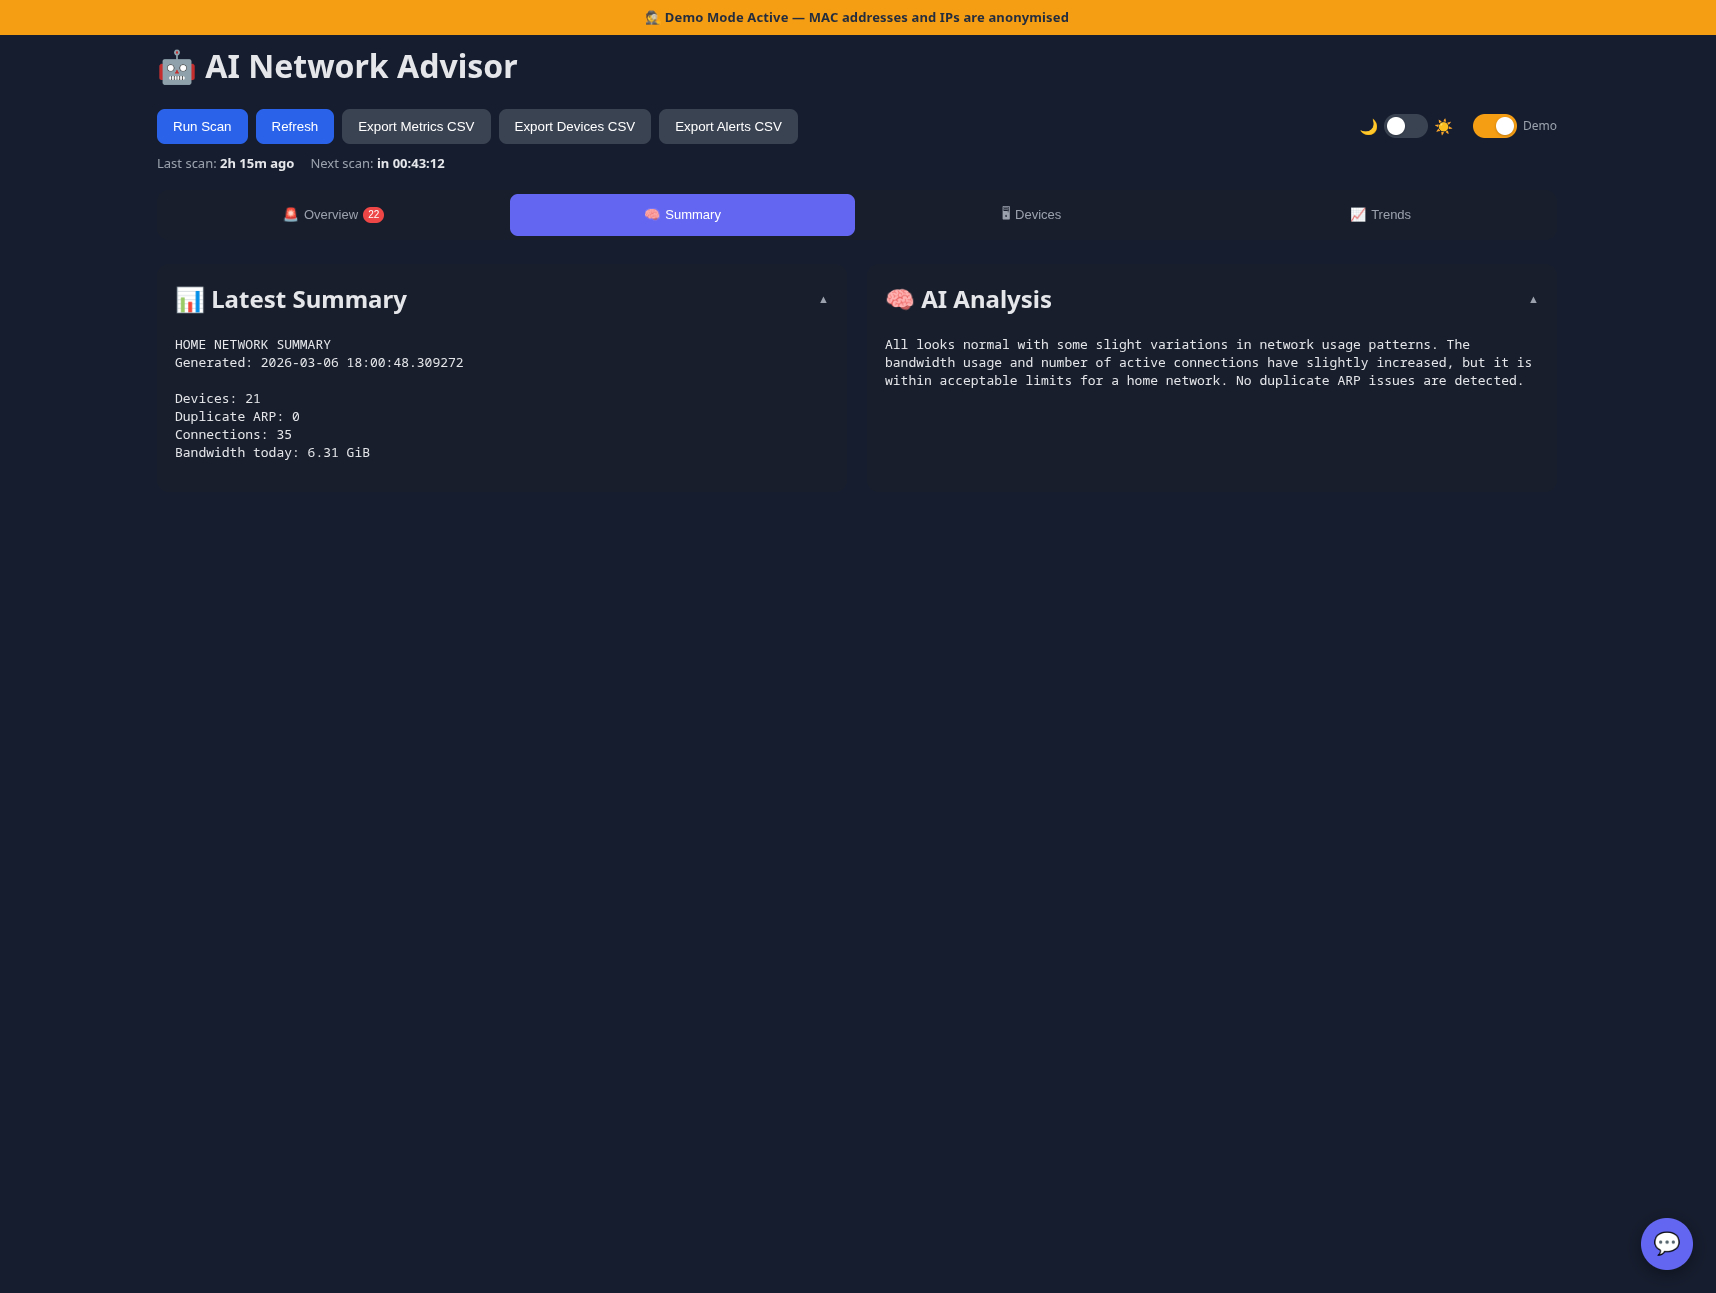
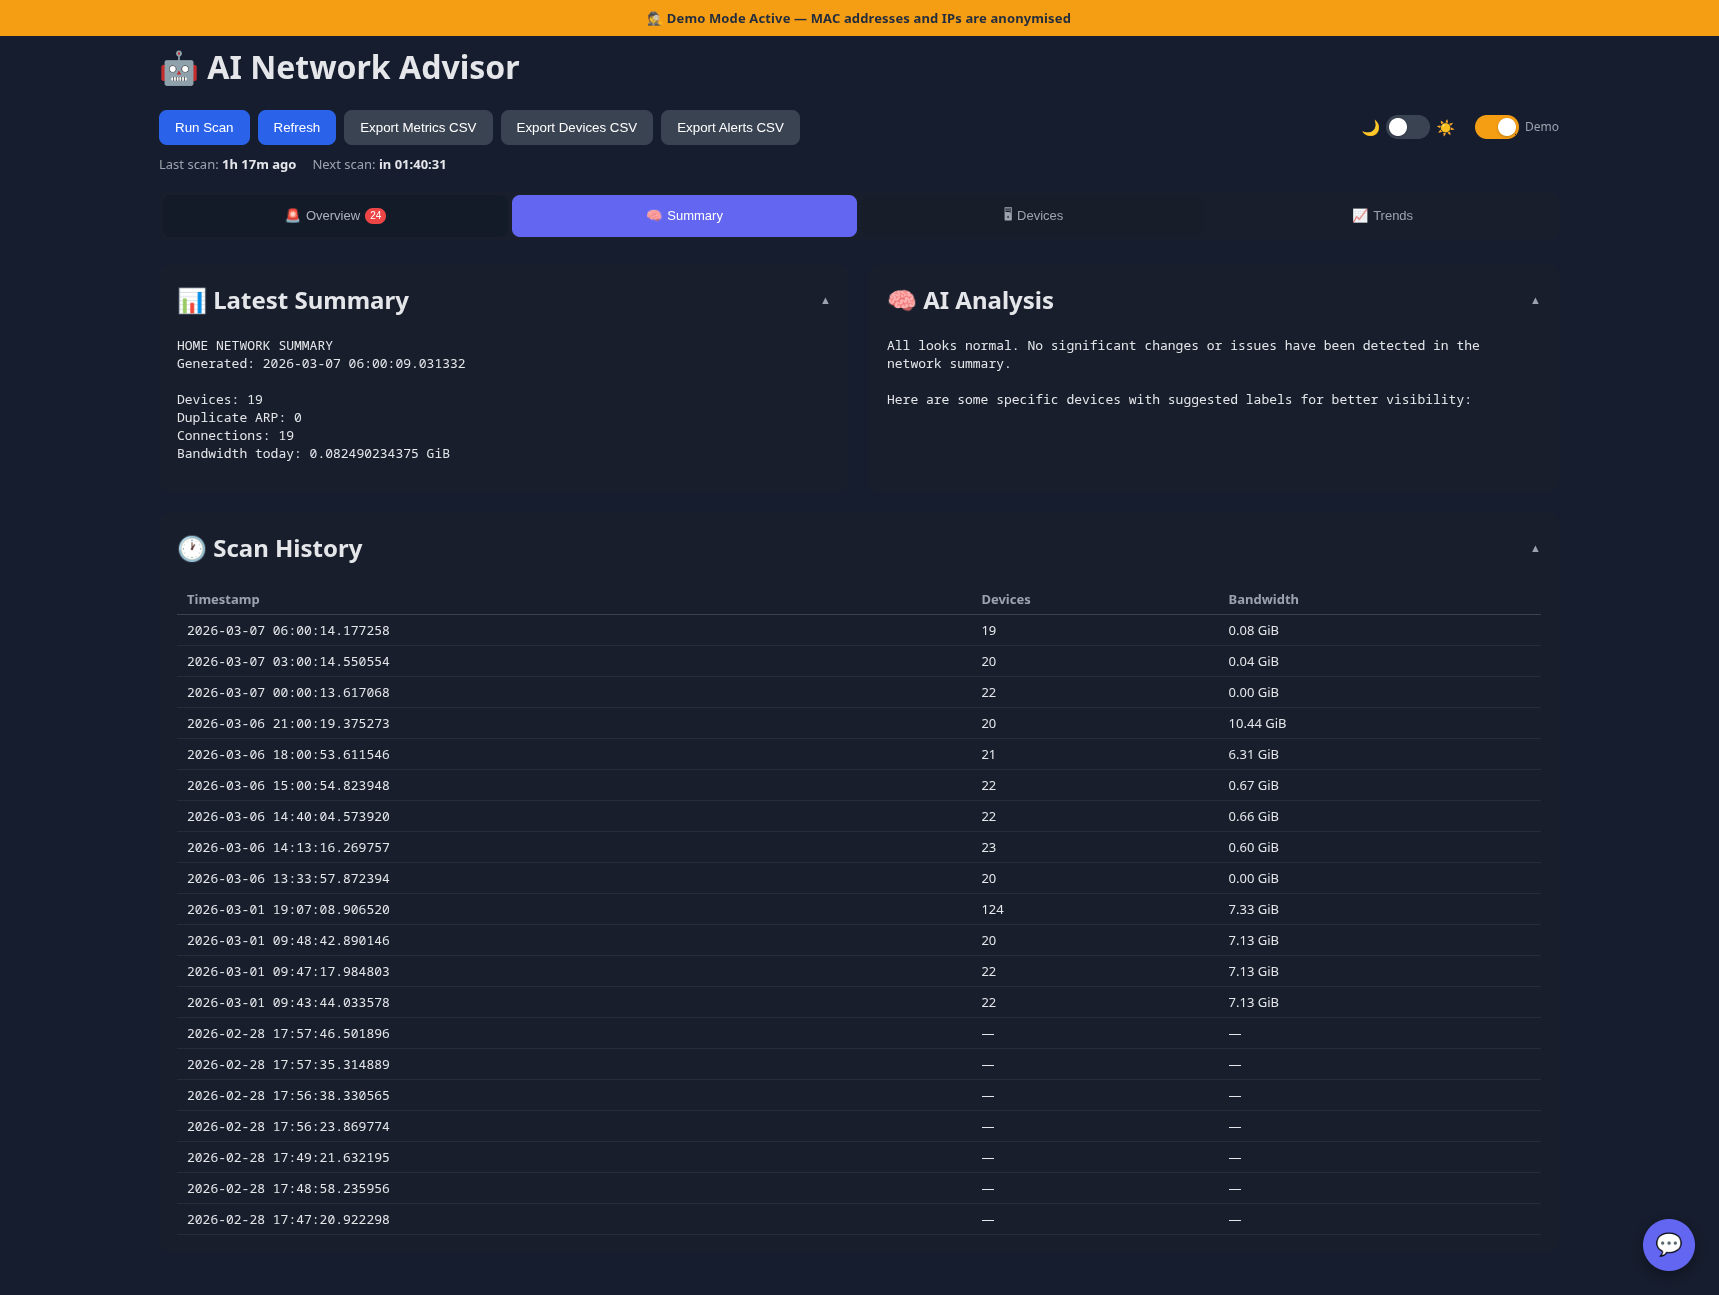
Update README and screenshot for scan history and new features
- Replace Summary tab screenshot to show scan history table
- Update screenshot caption to mention scan history
- Add scan history, per-device online/offline, port scan on new devices,
  and gateway ping to features list

diff --git a/README.md b/README.md
@@ -21,7 +21,8 @@ A self-hosted home network monitoring agent with an AI-powered web dashboard. Sc
 - Suggested starter questions so you know what to ask
 
 **Alerting**
-- Threshold-based alerts: high latency (>80ms), packet loss (>5%), host unreachable, duplicate ARP, new unknown devices
+- Threshold-based alerts: high latency (>80ms), packet loss (>5%), host unreachable, gateway unreachable, duplicate ARP, new unknown devices, labelled device offline
+- Gateway ping distinguishes LAN outages (router down) from ISP outages (internet down)
 - Alerts categorised by type with colour-coded badges (New Device, Packet Loss, Unreachable, Duplicate ARP, High Latency)
 - Alert escalation tracking — fires again if a condition persists
 - Auto-resolve when a condition clears
@@ -31,6 +32,8 @@ A self-hosted home network monitoring agent with an AI-powered web dashboard. Sc
 **Device Inventory**
 - Tracks every MAC address ever seen, with first/last seen timestamps
 - Assign human-readable labels to devices (e.g. "David's laptop", "Smart TV")
+- Per-device online/offline status — green/grey dot updated every scan; alerts fire when a labelled device disappears and auto-resolve when it returns
+- New device alerts include open ports (via optional `nmap` fast scan)
 - Click any "New device" alert to see device details in a modal
 - Unlabelled devices are visually flagged in the table
 
@@ -40,6 +43,7 @@ A self-hosted home network monitoring agent with an AI-powered web dashboard. Sc
 - Dark and light theme with toggle (preference saved to localStorage)
 - **Demo Mode** — anonymises all real MAC addresses and IP addresses with consistent fake values throughout the entire dashboard; useful for screenshots and sharing without exposing private network data. Toggle persists across sessions.
 - Collapsible cards (state saved to localStorage)
+- Scan history table showing the last 20 scans with device count and bandwidth (Summary tab)
 - Trend charts for bandwidth, device count, and duplicate ARP events (Chart.js)
 - CSV export endpoints for metrics, devices, and alerts — compatible with Power BI and Databricks
 
@@ -58,7 +62,7 @@ A self-hosted home network monitoring agent with an AI-powered web dashboard. Sc
 
 ![Overview tab](DemoScreenshots/001.jpeg)
 
-**Summary** — latest scan metrics and plain-English AI analysis
+**Summary** — latest scan metrics, plain-English AI analysis, and scan history (last 20 scans with device count and bandwidth)
 
 ![Summary tab](DemoScreenshots/002.jpeg)
 
